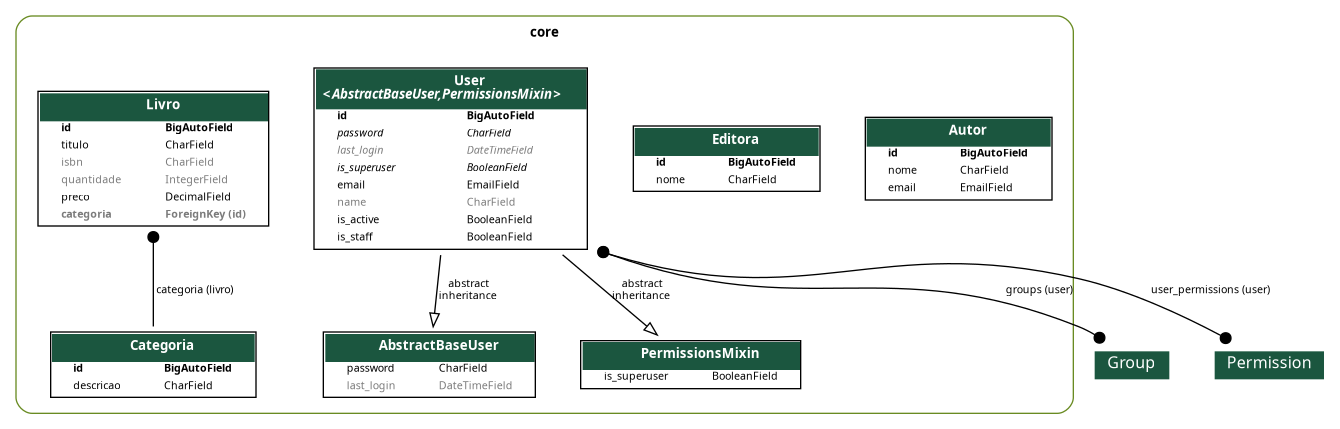
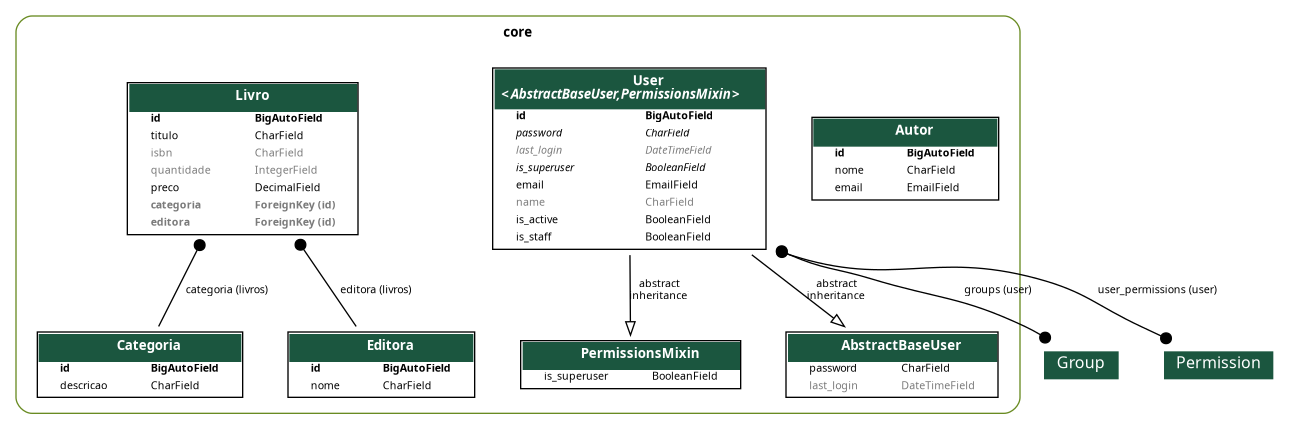
só

diff --git a/core/models/livro.py b/core/models/livro.py
@@ -1,11 +1,15 @@
 from django.db import models
+from .categoria import Categoria
+from .editora import Editora
 
 class Livro(models.Model):
     titulo = models.CharField(max_length=255)
     isbn = models.CharField(max_length=32, null=True, blank=True)
     quantidade = models.IntegerField(default=0, null= True, blank=True)
     preco = models.DecimalField(max_digits=7, decimal_places=2, default=0)
-    categoria = models.ForeignKey('Categoria', on_delete=models.SET_NULL, null=True, blank=True)
+    categoria = models.ForeignKey(Categoria, on_delete=models.PROTECT, related_name='livros', null=True, blank=True)
+    editora = models.ForeignKey(Editora, on_delete=models.PROTECT, related_name='livros', null=True, blank=True)
+    
 
     def __str__(self):
-        return f'({self.id}) {self.titulo} ({self.quantidade})'
+        return f'{self.id} - {self.titulo} ({self.quantidade})'

diff --git a/core/migrations/0007_alter_livro_categoria.py b/core/migrations/0007_alter_livro_categoria.py
@@ -1,0 +1,19 @@
+# Generated by Django 5.2.12 on 2026-03-17 17:33
+
+import django.db.models.deletion
+from django.db import migrations, models
+
+
+class Migration(migrations.Migration):
+
+    dependencies = [
+        ('core', '0006_autor_categoria_editora_livro'),
+    ]
+
+    operations = [
+        migrations.AlterField(
+            model_name='livro',
+            name='categoria',
+            field=models.ForeignKey(blank=True, null=True, on_delete=django.db.models.deletion.PROTECT, related_name='livros', to='core.categoria'),
+        ),
+    ]

diff --git a/core/migrations/0008_livro_editora.py b/core/migrations/0008_livro_editora.py
@@ -1,0 +1,19 @@
+# Generated by Django 5.2.12 on 2026-03-17 17:47
+
+import django.db.models.deletion
+from django.db import migrations, models
+
+
+class Migration(migrations.Migration):
+
+    dependencies = [
+        ('core', '0007_alter_livro_categoria'),
+    ]
+
+    operations = [
+        migrations.AddField(
+            model_name='livro',
+            name='editora',
+            field=models.ForeignKey(blank=True, null=True, on_delete=django.db.models.deletion.PROTECT, related_name='livros', to='core.editora'),
+        ),
+    ]
